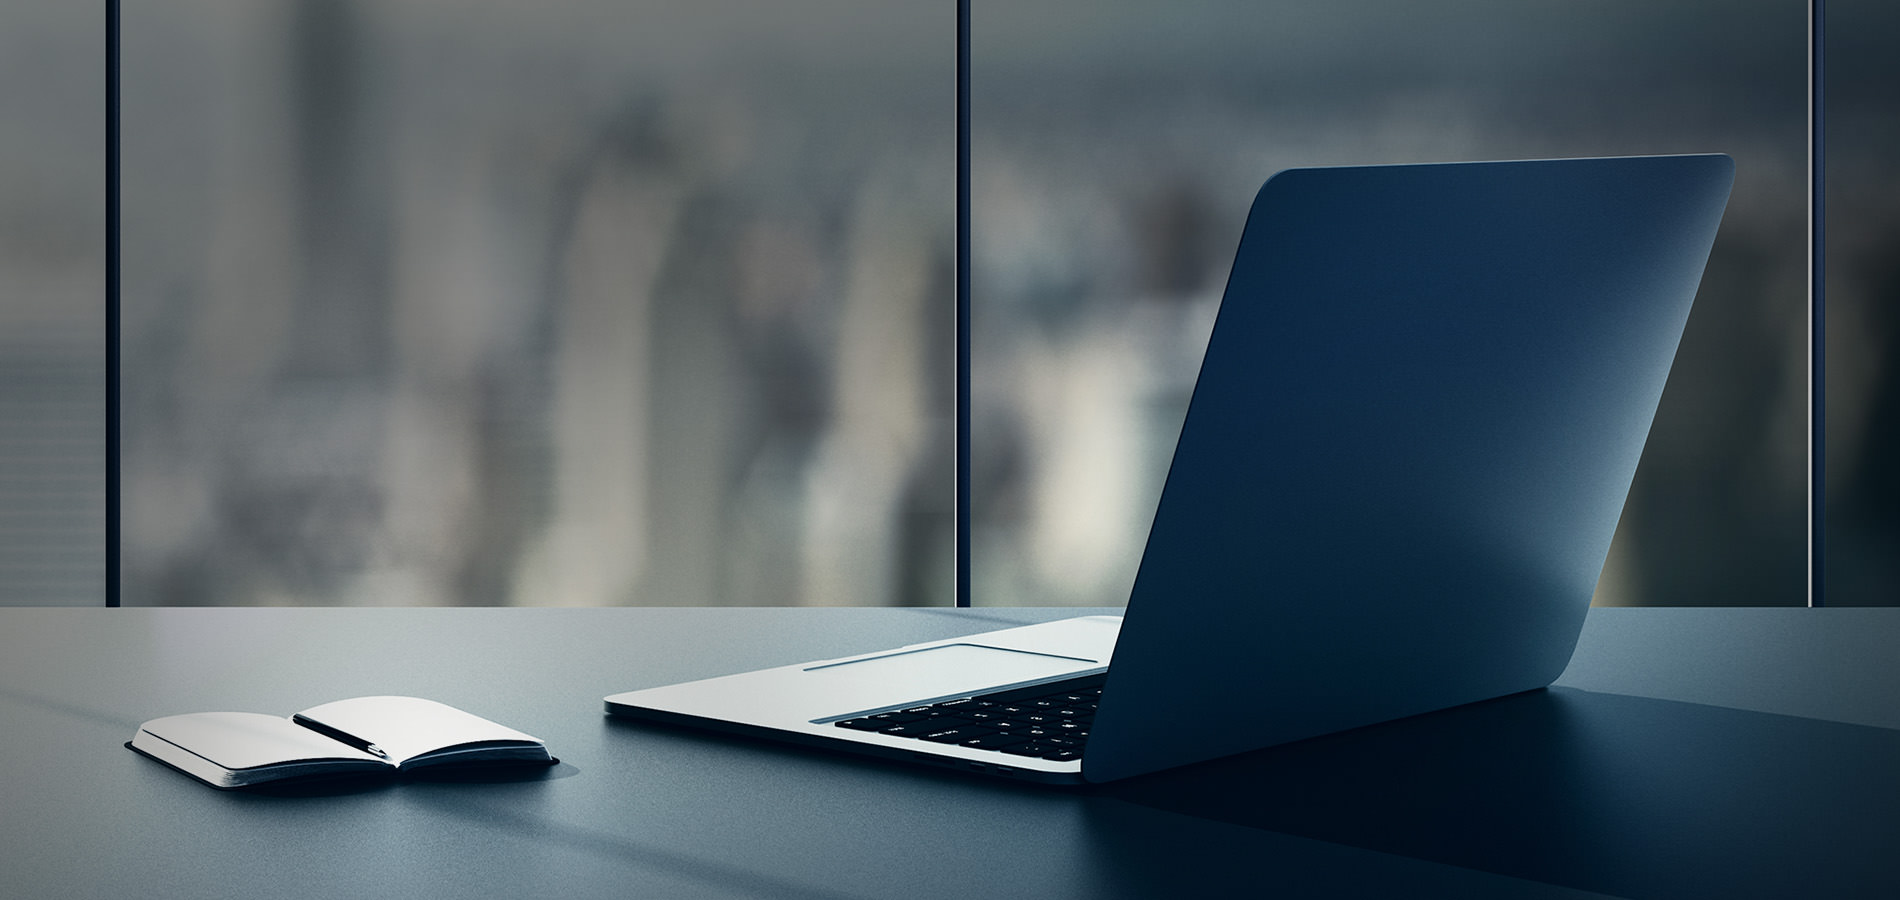
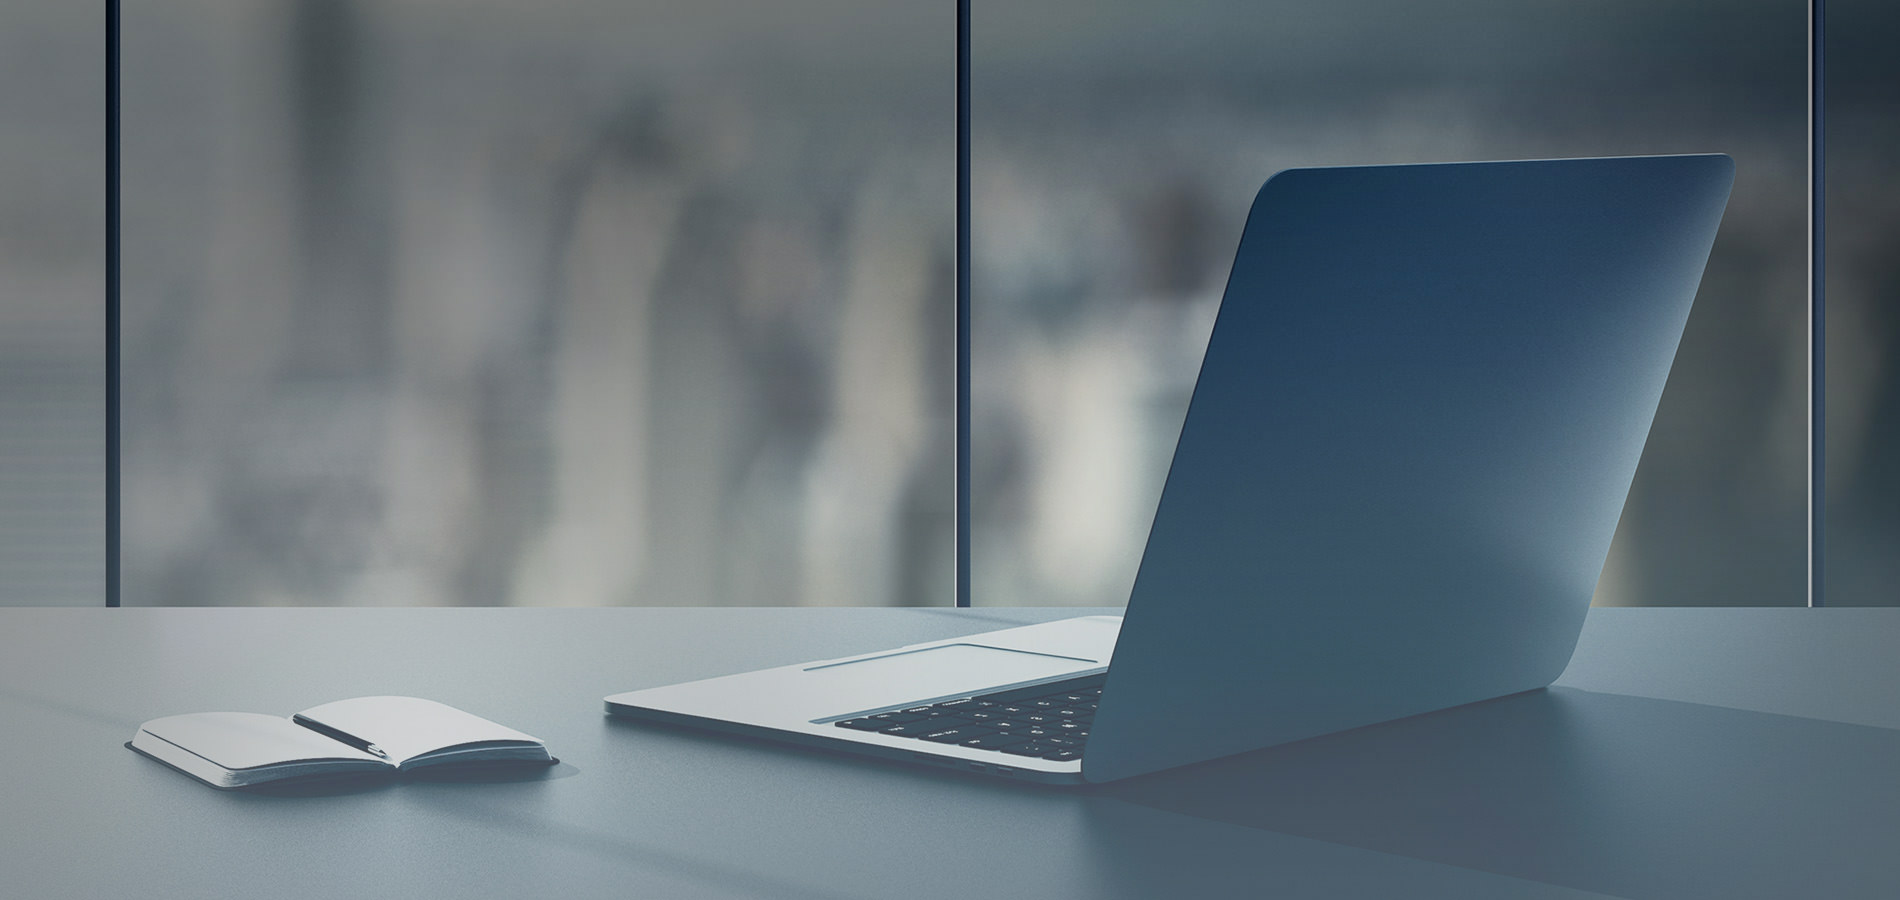
minor refining

diff --git a/css/main.css b/css/main.css
@@ -12,8 +12,7 @@
         padding: 200px 0;
         text-align: center;
         color: white;
-        background: url("../img/intro-bg.jpg") no-repeat bottom center scroll;
-        filter: grayscale(100%);
+        background: url("../img/intro-bg.jpg") no-repeat scroll;
         background-color: black;
         -webkit-background-size: cover;
         -moz-background-size: cover;
@@ -82,7 +81,7 @@
       }
       
       .about-text {
-        font-size: 2vh;
+        font-size: 2.5vw;
       }
       
       .contact-me {
